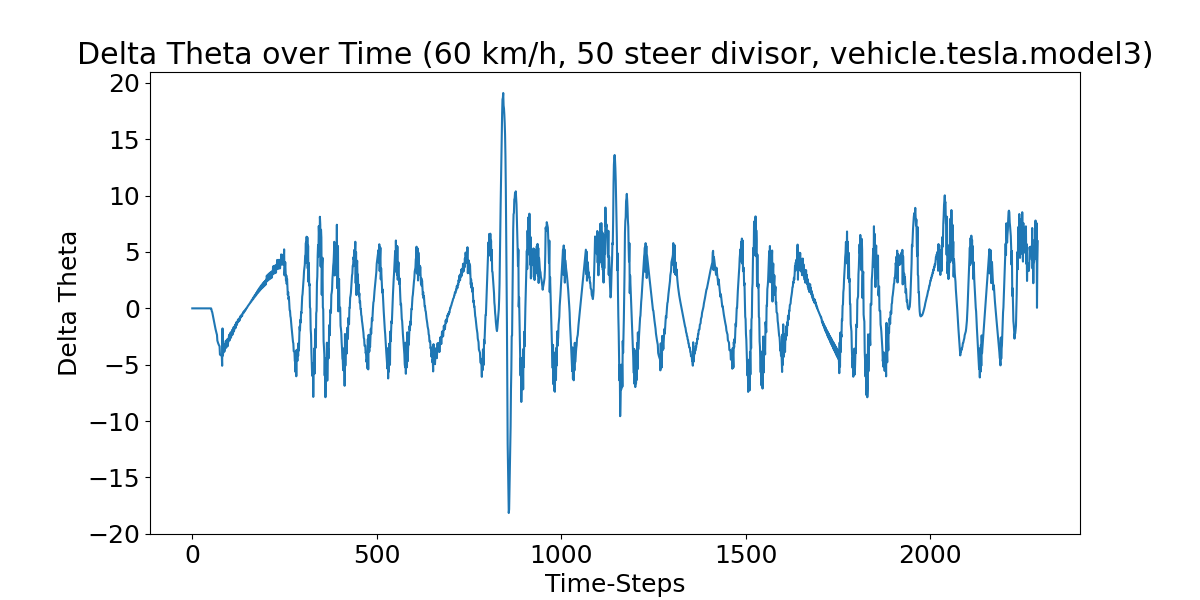
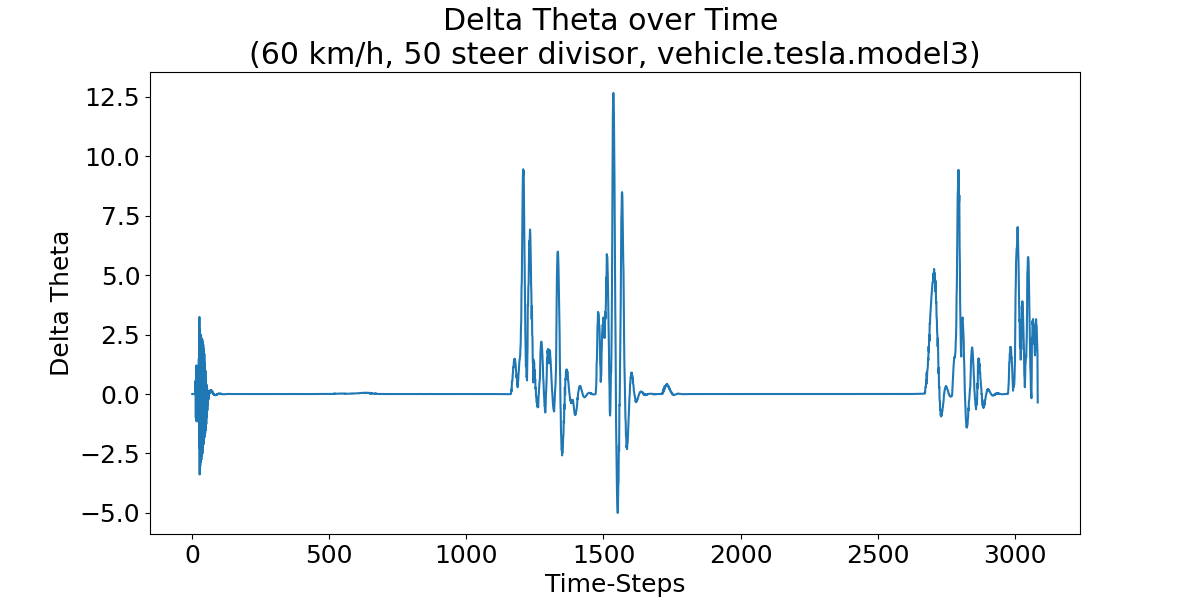
speed graphs

diff --git a/run/2024_03_21_25rl.py b/run/2024_03_21_25rl.py
@@ -209,6 +209,7 @@ def main():
         listDistancePredToPath = []
         listDeltaTheta = []
         listLocations = []
+        listSpeed = []
         # Plot setup for delta Y
         # fig_deltaY, ax1 = plt.subplots(figsize=(12, 6))
         # plt.rcParams.update({'font.size': 36})
@@ -245,7 +246,12 @@ def main():
         ax2.set_aspect('auto', 'box')
         ax2.set_xlabel('X')
         ax2.set_ylabel('Y')
-        ax2.set_title(f'Vehicle Location and Path Overlay ({TARGET_SPEED} km/h, {args.steerDivisor} steer divisor, {args.vehicle})')
+        ax2.set_title(f'Vehicle Location and Path Overlay \n({TARGET_SPEED} km/h, {args.steerDivisor} steer divisor, {args.vehicle})')
+        fig_speed, ax3 = plt.subplots(figsize=(12, 6))  # Adjust the figsize as needed
+        ax3.autoscale_view('tight')
+        ax3.set_xlabel('Time-Steps')
+        ax3.set_ylabel('Speed (km/h)')
+        ax3.set_title(f'Speed over Time \n({TARGET_SPEED} km/h, {args.steerDivisor} steer divisor, {args.vehicle})')
         def printLocations(currentLocation, closestLocation):
             return f'current location: {strLocation2D(currentLocation)} | closest location from path: {strLocation2D(closestLocation)}'
         dictLocationPrediction = {}
@@ -377,6 +383,7 @@ def main():
             unitChangeSteer = 0.1
             unitChangeBrake = 0.1
             kmh = VehicleSpeed1D(vehicle)
+            listSpeed.append(kmh)
             # output += f'{str_kmh(kmh)} | '
             if kmh < speedMinimum:
                 maxSteer = 0.01
@@ -472,6 +479,9 @@ def main():
         plt.rcParams.update({'font.size': 24})
         fig_overlay.savefig(os.path.join(dir_outptut, f'overlay_plot{TARGET_SPEED:03d}_{int(args.steerDivisor):03d}_{args.vehicle}.png'))
         plt.close(fig_overlay)
+        ax3.plot(listSpeed)
+        fig_speed.savefig(os.path.join(dir_outptut, f'speed{TARGET_SPEED:03d}_{int(args.steerDivisor):03d}_{args.vehicle}.png'))
+        plt.close(fig_speed)
 
         elapsedTime = elapsedSecondsEnd - elapsedSecondsStart
         def TimeToTextFile(elapsed_time_seconds):

diff --git a/run/2024_04_04_26_parent_rl.py b/run/2024_04_04_26_parent_rl.py
@@ -6,7 +6,7 @@ town.wait()
 # for speed in range(30,201,10):
 # for speed in range(80,29,-10):
 # for speed in range(30,90,10):
-for speed in [80,30]:
+for speed in [80,60,30]:
     print(f'START SPEED {speed}')
     # for steeringDivisor in range(25,201,25):
     for vehicle in ['vehicle.tesla.model3', 
